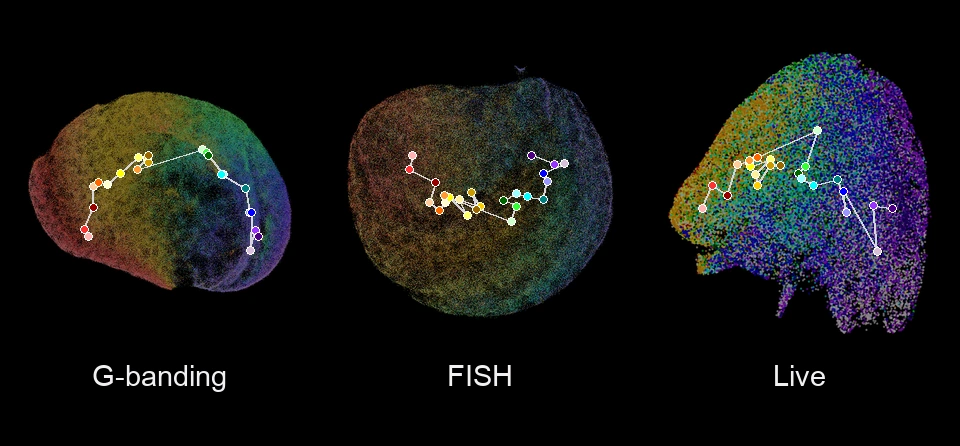
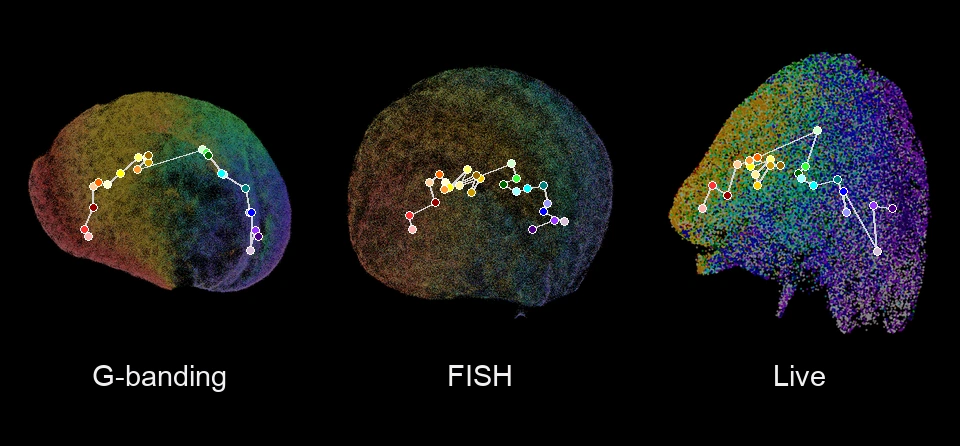
Register all three chromosome maps to shared class centroids

Changed region(s): [[0.3438, 0.1457, 0.6562, 0.7287], [0.2188, 0.3789, 0.25, 0.4081]]

diff --git a/site/scripts/prepare_state_maps.py b/site/scripts/prepare_state_maps.py
@@ -56,21 +56,39 @@ def live_figure(story):
     return cloud, dict(zip(PAPER_ORDER,normalized.round(6).tolist()))
 
 
+def orient_chr1_to_y(points):
+    direction = points[-1] - points[0]  # CLASSES starts with Chr1 and ends with ChrY.
+    x, y = direction / np.linalg.norm(direction)
+    return np.array([[x, -y], [y, x]])
+
+
+def fit_consensus(centered):
+    """Rigid generalized Procrustes fit for equally weighted states and classes."""
+    consensus = centered.mean(axis=0)
+    for _ in range(200):
+        u, _, vt = np.linalg.svd(centered.transpose(0, 2, 1) @ consensus)
+        u[:, :, -1] *= np.sign(np.linalg.det(u @ vt))[:, None]
+        rotations = u @ vt
+        updated = (centered @ rotations).mean(axis=0)
+        if np.max(np.abs(updated - consensus)) < 1e-12:
+            # Remove the arbitrary common rotation for display.
+            return rotations @ orient_chr1_to_y(updated)
+        consensus = updated
+    raise RuntimeError("Three-state centroid registration did not converge")
+
+
 def display_maps(clouds, centers):
-    """Work in each original panel's unit square. Use row-vector rotations."""
-    rotated, overlay = {}, {}
-    for key, groups in centers.items():
-        vector = np.subtract(groups['Y'][:2], groups['1'][:2])
-        x, y = vector / np.linalg.norm(vector)
-        rotated[key] = np.array([[x, -y], [y, x]])
-    def points(key):
-        return np.array([centers[key][c][:2] for c in CLASSES])
-    target = points('banding') @ rotated['banding']
-    for key in centers:
-        src = points(key)
-        u, _, vt = np.linalg.svd((src-src.mean(0)).T @ (target-target.mean(0)))
-        rotation = u @ np.diag([1., np.sign(np.linalg.det(u @ vt))]) @ vt
-        overlay[key] = (rotation, target.mean(0) - src.mean(0) @ rotation)
+    """Work in each original panel's unit square. Use row-vector transforms."""
+    keys = list(centers)
+    points = np.array([[centers[k][c][:2] for c in CLASSES] for k in keys])
+    means = points.mean(axis=1, keepdims=True)
+    rotated = {k: orient_chr1_to_y(p) for k, p in zip(keys, points)}
+    # Mirror the entire FISH view across its horizontal Chr1-to-ChrY axis.
+    rotated['fish'] = rotated['fish'] @ np.diag([1., -1.])
+    orientation = np.array([rotated[k] for k in keys])
+    fitted = orientation @ fit_consensus((points - means) @ orientation)
+    offsets = -(means @ fitted)[:, 0, :]
+    overlay = dict(zip(keys, zip(fitted, offsets)))
 
     # Frame occupied pixels, not the empty corners of the square source images.
     bounds = {}

diff --git a/site/README.md b/site/README.md
@@ -45,9 +45,12 @@ from the site directory to regenerate the UMAP clouds, normalized centroids and
 homepage preview. Fixed-cell maps use every saved Fig. 4 coordinate. The main
 live-cell map uses the Fig. 5E cloud and vector centroids exported by
 `prepare_intro_story.py`. The individual views rotate the Chr1-to-ChrY vector
-onto the positive horizontal axis. The overlay at `#aligned` fits one proper
-rotation and translation per state to the 24 G-banding class centroids, with
-equal weight per class. The fit uses the normalized square coordinates of the
+onto the positive horizontal axis and reflect FISH vertically in that view.
+The overlay at `#aligned` uses rigid generalized Procrustes registration.
+It alternates between fitting a proper rotation per centered map and averaging
+the three aligned positions of each of the 24 classes. Each state and class
+has equal weight. The shared orientation places the consensus Chr1 to the left
+of ChrY. The fit uses the normalized square coordinates of the
 three source plots. All layers share a single display zoom. Each cloud and its
 centroids use the same transform. Live assignments are inferred by ChromoID.
 
